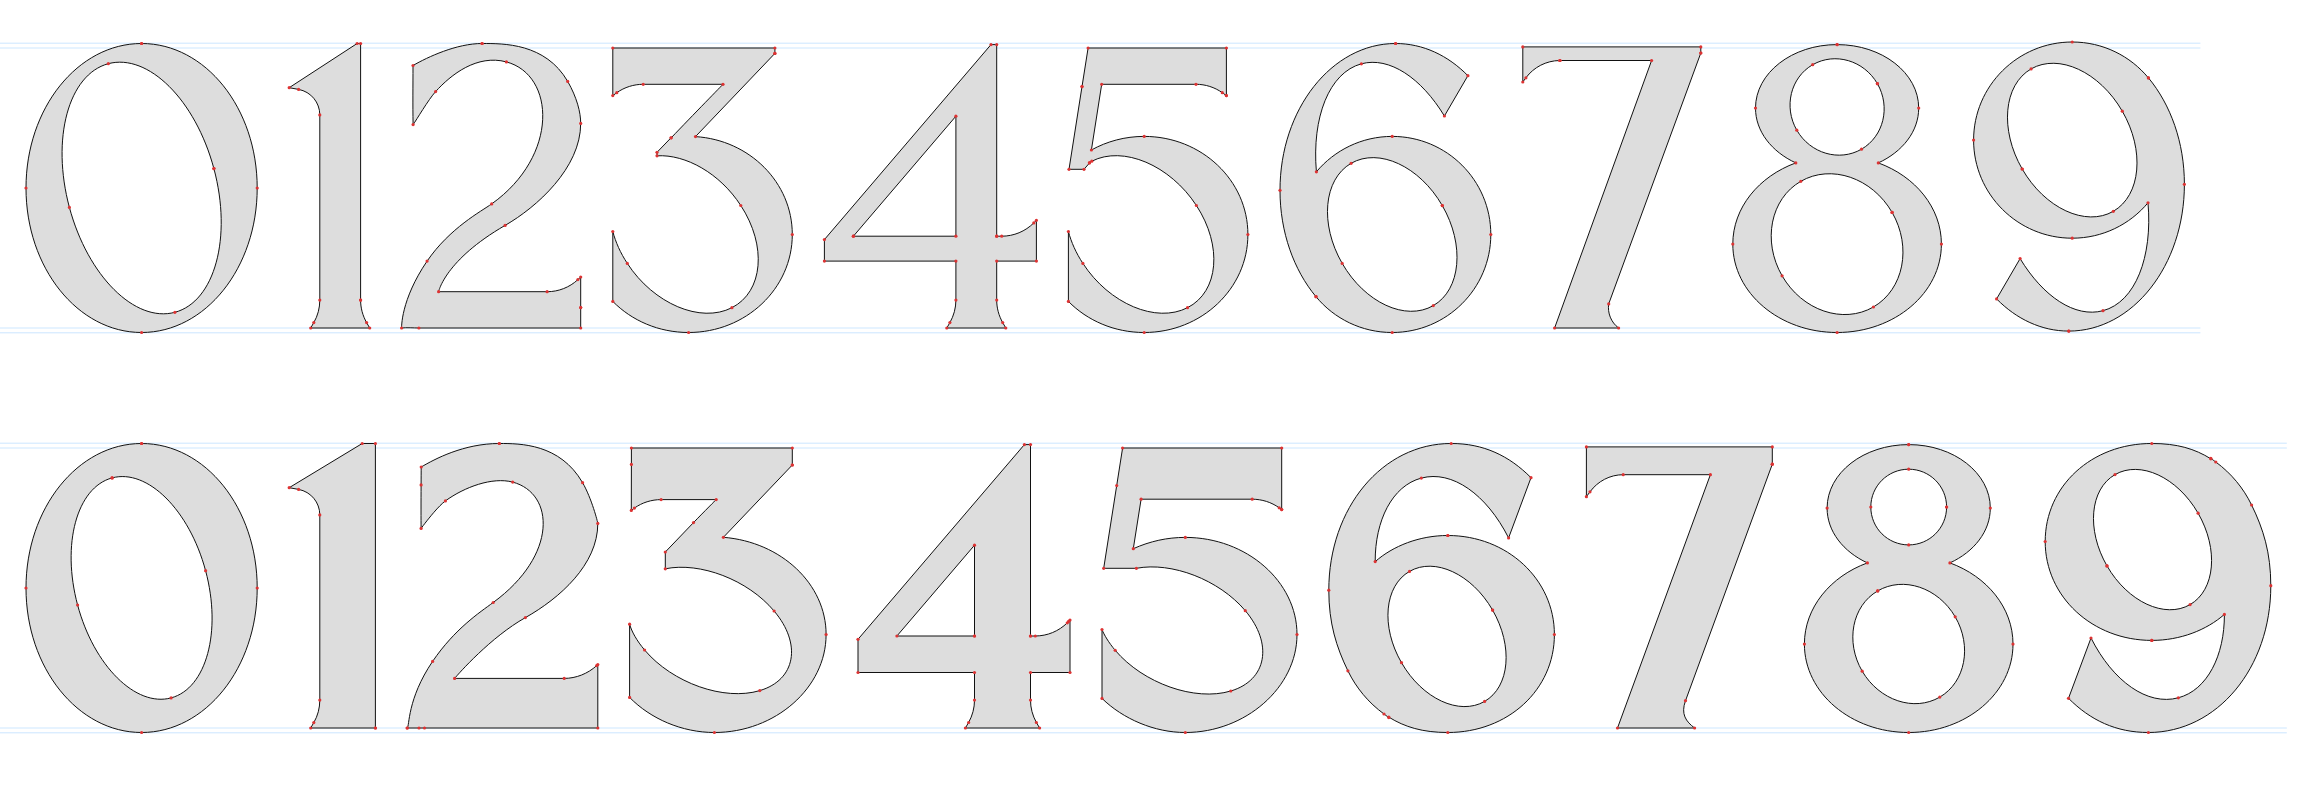
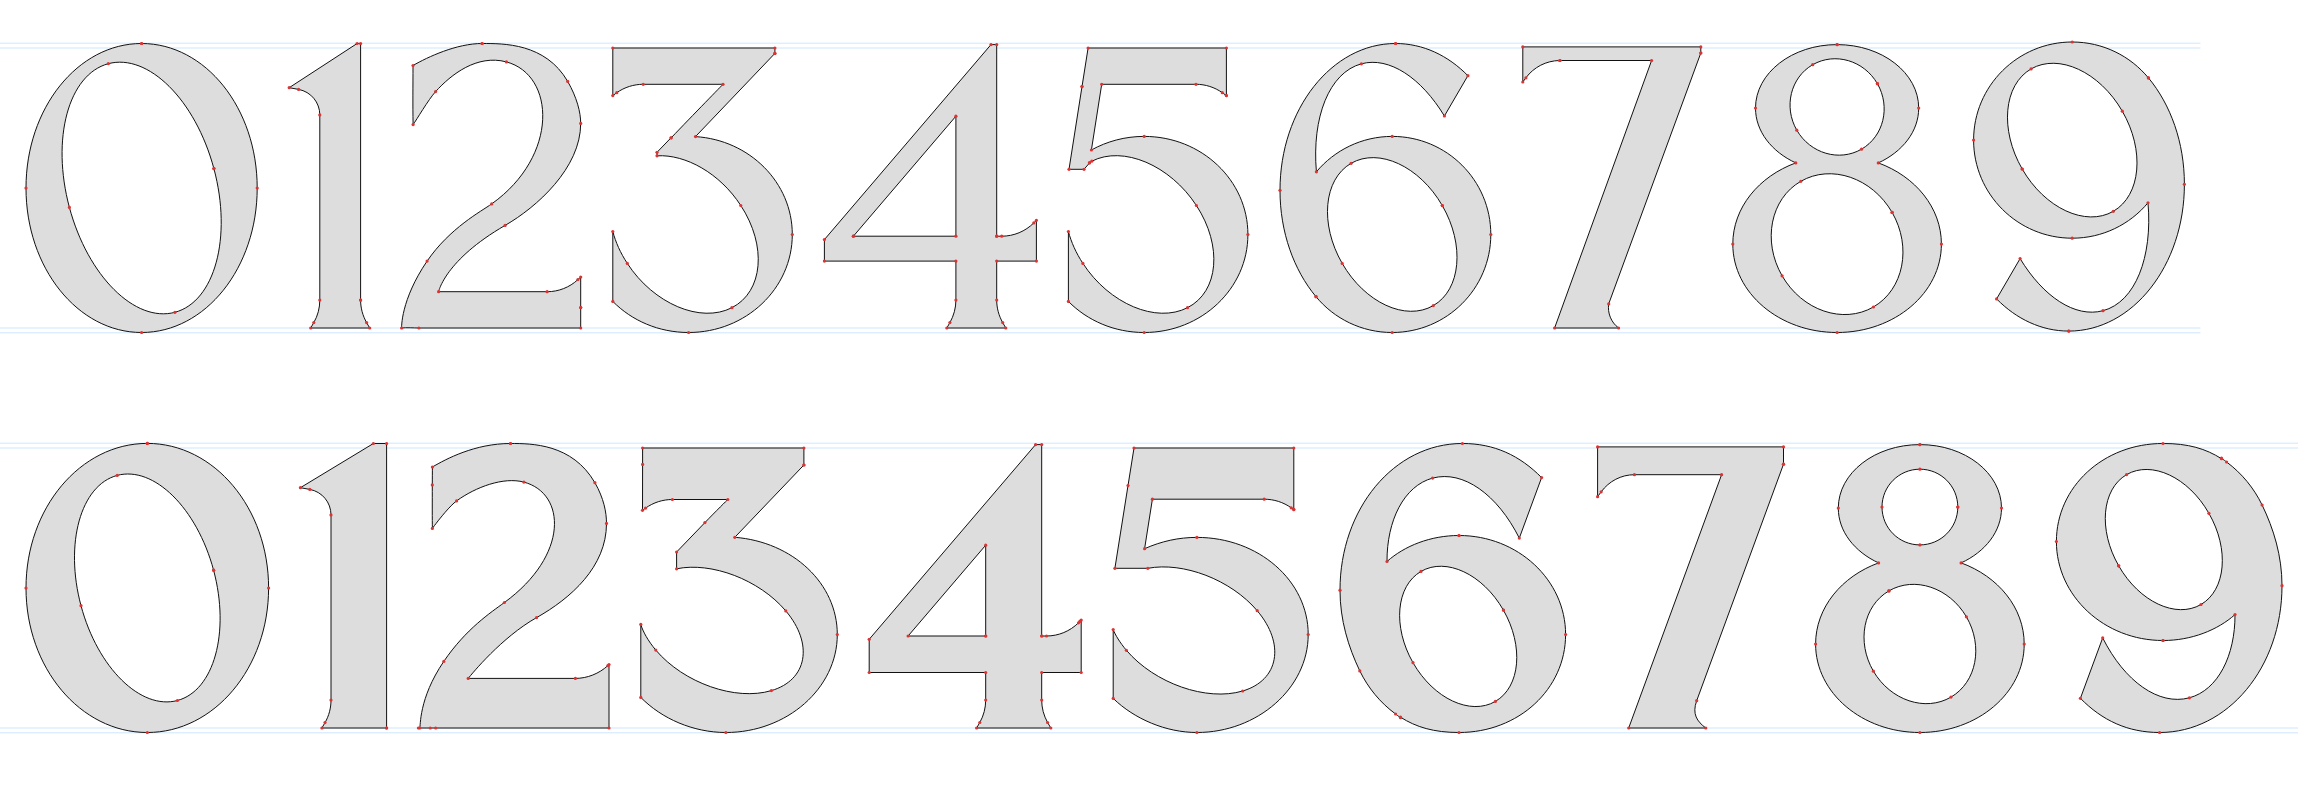
Số Bold: 0 theo bản vẽ designer (2062:453), 2 theo bản chỉnh; sửa luật offset làm dẹt vai phải số 2
Claude-Session: https://claude.ai/code/session_0125J9JYDULhvN6fEFMp2Zhd

diff --git a/tools/construct/ref/adjust_bold_fig.py b/tools/construct/ref/adjust_bold_fig.py
@@ -9,7 +9,7 @@ HERE = os.path.dirname(os.path.abspath(__file__)); sys.path.insert(0, HERE); sys
 import pathops
 from make_ref import outline
 import diff
-YMIN = {'1': 0, '3': -11.3, '2': 0, '5': -11.3, '6': -11.3, '9': -11.3, '7': 0}
+YMIN = {'0': -11.3, '1': 0, '3': -11.3, '2': 0, '5': -11.3, '6': -11.3, '9': -11.3, '7': 0}
 
 def segs_of(p):
     """pathops → list contour; mỗi contour = list đoạn ('L', P0, P1) / ('C', P0, P1, P2, P3)"""
@@ -43,10 +43,10 @@ def legs(s):
     return out
 
 FIX = {'xs': (), 'ys': (0, 700, -11.3, 711.3, 702.8, 708.5)}
-def off_line(a, b, d):
-    # cạnh nằm trên đường kẻ (baseline, cap, overshoot) hoặc mặt cắt ở mép trái/phải ô chữ: giữ nguyên
+def off_line(a, b, d, fixed=True):
+    # cạnh nằm trên đường kẻ (baseline, cap, overshoot): giữ nguyên; mặt cắt ở mép trái/phải ô chữ: chỉ khi là cạnh THẲNG (fixed)
     if abs(a[1] - b[1]) < 2 and any(abs(a[1] - m) < 2 and abs(b[1] - m) < 2 for m in FIX['ys']): d = 0
-    if abs(a[0] - b[0]) < 0.6 and any(abs(a[0] - m) < 0.6 for m in FIX['xs']): d = 0
+    if fixed and abs(a[0] - b[0]) < 0.6 and any(abs(a[0] - m) < 0.6 for m in FIX['xs']): d = 0
     L = math.dist(a, b); n = ((b[1] - a[1]) / L, -(b[0] - a[0]) / L)   # bên phải hướng đi = phía ngoài mực (contour ngoài ngược chiều kim đồng hồ)
     return (a[0] + n[0] * d, a[1] + n[1] * d), (b[0] + n[0] * d, b[1] + n[1] * d)
 
@@ -63,12 +63,12 @@ def offset_contour(c, d):
     for i, s in enumerate(c):
         L = legs(s)
         if not L: new.append(s); continue
-        OL = [off_line(a, b, d) for a, b in L]
-        prevL = legs(c[i - 1]); pl = off_line(*prevL[-1], d) if prevL else OL[0]
+        OL = [off_line(a, b, d, s[0] == 'L') for a, b in L]
+        prevL = legs(c[i - 1]); pl = off_line(*prevL[-1], d, c[i - 1][0] == 'L') if prevL else OL[0]
         p0 = inter(pl, OL[0]) or OL[0][0]
         if math.dist(p0, s[1]) > 4 * abs(d) + 1: p0 = OL[0][0]   # góc rất nhọn: giữ điểm dời thẳng
         if s[0] == 'L':
-            nxt = legs(c[(i + 1) % n]); nl = off_line(*nxt[0], d) if nxt else OL[0]
+            nxt = legs(c[(i + 1) % n]); nl = off_line(*nxt[0], d, c[(i + 1) % n][0] == 'L') if nxt else OL[0]
             p1 = inter(OL[0], nl) or OL[0][1]
             if math.dist(p1, s[2]) > 4 * abs(d) + 1: p1 = OL[0][1]
             new.append(['L', p0, p1])
@@ -78,13 +78,13 @@ def offset_contour(c, d):
             k = 0
             for j in (1, 2):
                 a, b = P[j - 1], P[j]
-                if math.dist(a, b) > 2.0: la = off_line(a, b, d)
-                else: la = off_line(P[j], P[j + 1], d) if math.dist(P[j], P[j + 1]) > 2.0 else off_line(P[0], P[3], d)
+                if math.dist(a, b) > 2.0: la = off_line(a, b, d, False)
+                else: la = off_line(P[j], P[j + 1], d, False) if math.dist(P[j], P[j + 1]) > 2.0 else off_line(P[0], P[3], d, False)
                 ix = None
                 nb = P[j + 1]
-                if math.dist(P[j], nb) > 2.0 and math.dist(a, b) > 2.0: ix = inter(la, off_line(P[j], nb, d))
+                if math.dist(P[j], nb) > 2.0 and math.dist(a, b) > 2.0: ix = inter(la, off_line(P[j], nb, d, False))
                 Q.append(ix if ix and math.dist(ix, P[j]) < 6 * abs(d) + 2 else (P[j][0] + (la[0][0] - a[0]), P[j][1] + (la[0][1] - a[1])))
-            nxt = legs(c[(i + 1) % n]); nl = off_line(*nxt[0], d) if nxt else OL[-1]
+            nxt = legs(c[(i + 1) % n]); nl = off_line(*nxt[0], d, c[(i + 1) % n][0] == 'L') if nxt else OL[-1]
             p3 = inter(OL[-1], nl) or OL[-1][1]
             if math.dist(p3, s[4]) > 4 * abs(d) + 1: p3 = OL[-1][1]
             Q.append(p3); new.append(['C'] + Q)
@@ -202,9 +202,21 @@ if __name__ == '__main__':
         print(ch, 'lòng co hệ số %.2f, %d lòng, mật độ %.3f (mục tiêu %.3f)' % (f, len(cnt), dens(to_path(cs2)), target))
         return cs2
     for ch in '0123456789':
-        if ch in '08':
+        if ch in '08' and ch not in raw:   # chỉ khi chưa có bản vẽ
             cur = round_bold(ch); x0 = bbox(cur)[0]; cur = [[[s_[0]] + [(p[0] - x0, p[1]) for p in s_[1:]] for s_ in c] for c in cur]
             B[f'{ch}-Bold'] = [d_of(cur)]; continue
+        if ch == '0' and ch in raw:   # 0 của designer: vòng ngoài giữ nguyên, lòng (elip) phóng/co quanh tâm tới mật độ mục tiêu
+            cs = segs_of(pathops.simplify(shift(outline(raw[ch]), YMIN[ch]), fix_winding=True))
+            big = max(cs, key=lambda c: (bbox([c])[2] - bbox([c])[0]))
+            inner = [c for c in cs if c is not big][0]; ib = bbox([inner]); cx, cy = (ib[0] + ib[2]) / 2, (ib[1] + ib[3]) / 2
+            target = dens(L('0-Regular')) * ratio; lo, hi = 0.9, 1.2
+            for it in range(18):
+                f = (lo + hi) / 2
+                cur = [big, [[s_[0]] + [(cx + (p[0] - cx) * f, cy + (p[1] - cy) * f) for p in s_[1:]] for s_ in inner]]
+                if dens(to_path(cur)) > target: lo = f
+                else: hi = f
+            x0 = bbox(cur)[0]; cur = [[[s_[0]] + [(p[0] - x0, p[1]) for p in s_[1:]] for s_ in c] for c in cur]
+            B['0-Bold'] = [d_of(cur)]; print('0 lòng × %.3f, mật độ %.3f (mục tiêu %.3f)' % (f, dens(to_path(cur)), target)); continue
         if ch == '1':
             cs = segs_of(pathops.simplify(shift(outline(raw[ch]), YMIN[ch]), fix_winding=True)); B['1-Bold'] = [d_of([tidy(g1(c)) for c in cs])]; continue
         src = shift(outline(raw[ch]), YMIN[ch]) if ch in raw else L(f'{ch}-Bold')

diff --git a/tools/construct/ref/ellfit.py b/tools/construct/ref/ellfit.py
@@ -30,7 +30,7 @@ def ellipse_of(p):
     return {"c": [float(C[0]), float(C[1])], "rl": float(ax[i]), "rs": float(ax[1 - i]), "ang": ang,
             "M": [float(a), float(b), float(c)]}
 
-def same(e, f, tol=2.0):
+def same(e, f, tol=8.0):
     if math.dist(e["c"], f["c"]) > tol or abs(e["rl"] - f["rl"]) > tol or abs(e["rs"] - f["rs"]) > tol: return False
     if abs(e["rl"] - e["rs"]) < 2: return True               # gần tròn: góc không quan trọng
     da = abs(e["ang"] - f["ang"]) % 180; return min(da, 180 - da) < 3

diff --git a/docs/07-rule-book-v0.3-dung-theo-quy-tac.md b/docs/07-rule-book-v0.3-dung-theo-quy-tac.md
@@ -210,7 +210,9 @@ Nguồn: Figma `2062:452` (1 3 2 5 6 9 7 Bold do designer vẽ) → `tools/const
   - Giữ nguyên các cạnh nằm trên đường kẻ (0, 700, ±11.3, 711.3, 702.8, 708.5) và các mặt cắt ở mép ô chữ.
   - Sau đó giãn về đúng khung, nắn liền tiếp tuyến ở nút trơn, nắn cạnh gần đứng/ngang cho thẳng.
   - Lượng dời: 2 −6.3u · 3 −1.4 · 5 −2.4 · 6 +2.2 · 7 +1.6 · 9 +2.2 · 1 giữ nguyên (lệch 2 %).
-- **0 và 8** (không có trong bản vẽ): giữ vòng ngoài của Regular; lòng là elip 4 điểm của Regular co lại như O Bold, tới đúng mật độ mục tiêu.
+- **0** (designer vẽ thêm, Figma `2062:453`): vòng ngoài giữ nguyên; lòng elip phóng ×1.043 quanh tâm tới đúng mật độ mục tiêu (giữ elip chính xác, không offset).
+- **2**: theo bản designer chỉnh lại (vai trên, đầu chéo); luật giữ mặt cắt ở mép ô chỉ áp cho cạnh thẳng, không áp cho tay nắm đường cong (trước đó làm dẹt vai phải của 2).
+- **8** (không có trong bản vẽ): giữ vòng ngoài của Regular; lòng là elip 4 điểm của Regular co lại như O Bold, tới đúng mật độ mục tiêu.
 - **4** (không có trong bản vẽ): bản suy ra từ Regular (thân +37 sang trái, chéo dày vào lòng, thanh +28 xuống).
 - **Kiểm tra:** không còn gãy tiếp tuyến ngoài các góc cố ý của bản vẽ (chân thân 5, góc trên-phải 7). Đáy/đỉnh đúng đường kẻ.
 - **Ảnh:** `docs/img/v0.3.3-so-Regular-Bold.png`, `docs/img/v0.3.3-so-Bold-guide.png`.
